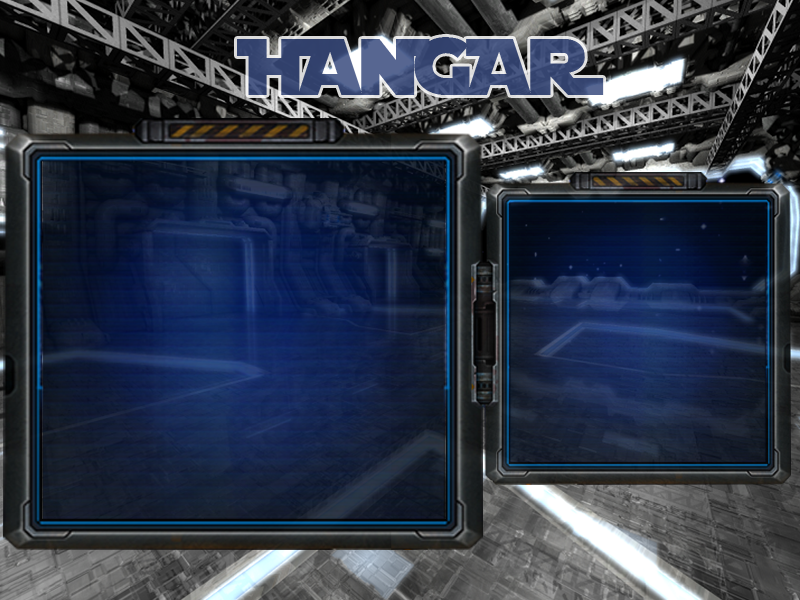
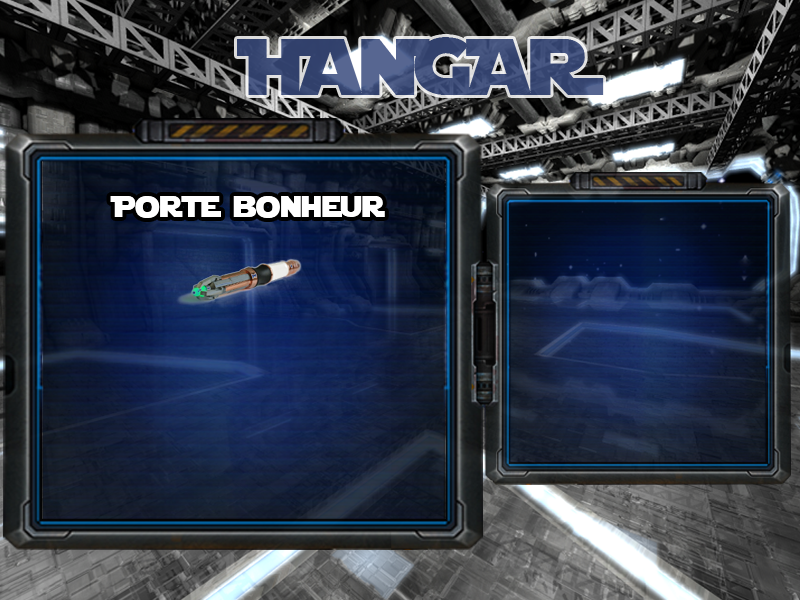
Ajoute de battle et up des rsc et hangar2

Changed region(s): [[0.125, 0.3, 0.5, 0.39], [0.2188, 0.42, 0.375, 0.51]]

diff --git a/src/Gameview/BattleView.java b/src/Gameview/BattleView.java
@@ -1,0 +1,183 @@
+package Gameview;
+
+import java.io.IOException;
+import java.nio.file.Paths;
+import org.jsfml.graphics.Font;
+import org.jsfml.graphics.RenderWindow;
+import org.jsfml.graphics.Sprite;
+import org.jsfml.graphics.Text;
+import org.jsfml.graphics.Texture;
+import org.jsfml.window.VideoMode;
+import org.jsfml.window.WindowStyle;
+import org.jsfml.window.event.Event;
+import org.jsfml.window.event.Event.Type;
+
+import controller.Game;
+
+public class BattleView {
+
+	public RenderWindow BattleWindow;
+	public Game monGame;
+	private Texture FondTexture = new Texture();
+	private Texture VoidTexture = new Texture();
+	private Texture Asteroide1Texture = new Texture();
+	private Texture Asteroide2Texture = new Texture();
+	private Texture Asteroide3Texture = new Texture();
+	private Texture AllyTexture = new Texture();
+	private Texture HeroTexture = new Texture();
+	private Texture EnnemyTexture = new Texture();
+	private Sprite FondSprite = new Sprite();
+	private Sprite voidie = new Sprite();
+	private Sprite asteroide1 = new Sprite();
+	private Sprite asteroide2 = new Sprite();
+	private Sprite asteroide3 = new Sprite();
+	private Sprite ally = new Sprite();
+	private Sprite ennemy = new Sprite();
+	private Sprite hero = new Sprite();
+	private int[][] casesBattle;
+
+	public BattleView(Game P,RenderWindow maRenderWindow)
+	{
+		BattleWindow = maRenderWindow;
+		monGame = P;
+	}
+
+	public String run(){
+
+		chargerImages();
+		FondSprite.setTexture(FondTexture);
+
+		while(BattleWindow.isOpen() )
+		{
+			for(Event event : BattleWindow.pollEvents())
+			{
+				if(event.type == Type.CLOSED){
+					BattleWindow.close();
+				}
+
+				BattleWindow.clear();
+				BattleWindow.draw(FondSprite);
+
+				int i,j;
+				casesBattle = monGame.getGrilleTBS().getCases();
+
+				for(i=0;i<15;i++){
+					for(j=0;j<15;j++){
+
+						switch (casesBattle[i][j])
+						{
+						case 0:
+							BattleWindow.draw(voidie);
+							voidie.setTexture(VoidTexture);
+							voidie.setPosition(150+i*38,10+j*38);
+							break;
+						case 1:
+							BattleWindow.draw(asteroide1);
+							asteroide1.setTexture(Asteroide1Texture);
+							asteroide1.setPosition(150+i*38,10+j*38);
+							break;
+						case 2:
+							BattleWindow.draw(asteroide2);
+							asteroide2.setTexture(Asteroide2Texture);
+							asteroide2.setPosition(150+i*38,10+j*38);
+							break;
+						case 3:
+							BattleWindow.draw(asteroide3);
+							asteroide3.setTexture(Asteroide3Texture);
+							asteroide3.setPosition(150+i*38,10+j*38);
+							break;
+						case -1:
+							BattleWindow.draw(hero);
+							hero.setTexture(HeroTexture);
+							hero.setPosition(150+i*38,10+j*38);
+							break;
+						case -2:
+							BattleWindow.draw(ally);
+							ally.setTexture(AllyTexture);
+							ally.setPosition(150+i*38,10+j*38);
+							break;
+						case -3:
+							BattleWindow.draw(ennemy);
+							ennemy.setTexture(EnnemyTexture);
+							ennemy.setPosition(150+i*38,10+j*38);
+							break;
+						default:
+
+						}
+					}
+				}
+
+				BattleWindow.display();
+			}
+		}
+		return "endGame";
+	}
+
+	private void chargerImages(){
+		try
+		{
+			FondTexture.loadFromFile(Paths.get("rsc\\Battlefield.png"));
+		}
+		catch (IOException e1) {
+			// TODO Auto-generated catch block
+			e1.printStackTrace();
+		}
+		try
+		{
+			VoidTexture.loadFromFile(Paths.get("rsc\\void.png"));
+		}
+		catch (IOException e1) {
+			// TODO Auto-generated catch block
+			e1.printStackTrace();
+		}
+		try
+		{
+			Asteroide1Texture.loadFromFile(Paths.get("rsc\\aste1.png"));
+		}
+		catch (IOException e1) {
+			// TODO Auto-generated catch block
+			e1.printStackTrace();
+		}
+		try
+		{
+			Asteroide2Texture.loadFromFile(Paths.get("rsc\\aste2.png"));
+		}
+		catch (IOException e1) {
+			// TODO Auto-generated catch block
+			e1.printStackTrace();
+		}
+		try
+		{
+			Asteroide3Texture.loadFromFile(Paths.get("rsc\\aste3.png"));
+		}
+		catch (IOException e1) {
+			// TODO Auto-generated catch block
+			e1.printStackTrace();
+		}
+		try
+		{
+			AllyTexture.loadFromFile(Paths.get("rsc\\ally.png"));
+		}
+		catch (IOException e1) {
+			// TODO Auto-generated catch block
+			e1.printStackTrace();
+		}
+		try
+		{
+			EnnemyTexture.loadFromFile(Paths.get("rsc\\enemy.png"));
+		}
+		catch (IOException e1) {
+			// TODO Auto-generated catch block
+			e1.printStackTrace();
+		}
+		try
+		{
+			HeroTexture.loadFromFile(Paths.get("rsc\\hero.png"));
+		}
+		catch (IOException e1) {
+			// TODO Auto-generated catch block
+			e1.printStackTrace();
+		}
+	}
+
+}

diff --git a/src/controller/Game.java b/src/controller/Game.java
@@ -8,6 +8,7 @@ import org.jsfml.window.VideoMode;
 import org.jsfml.window.WindowStyle;
 
 import Gameview.AightMusic;
+import Gameview.BattleView;
 import Gameview.Hangar2View;
 import Gameview.HangarView;
 import model.Arme;
@@ -112,9 +113,9 @@ public class Game extends Thread {
 	public void run() {
 //		musicActu.balancer();
 
-		String Etat = "Hangar";
+		String Etat = "Battle";
 		
-		RenderWindow RenderWind = new RenderWindow(new VideoMode(800, 600, 32), "Hangar",WindowStyle.CLOSE);
+		RenderWindow RenderWind = new RenderWindow(new VideoMode(800, 600, 32), "Beyond the stars",WindowStyle.CLOSE);
 		
 		while(Etat!="EndGame")
 		{
@@ -129,6 +130,12 @@ public class Game extends Thread {
 					Hangar2View monHangar2 = new Hangar2View(this, RenderWind);
 					Etat = monHangar2.run();
 					break;
+					
+				case "Battle" :
+					BattleView maBattle = new BattleView(this, RenderWind);
+					Etat = maBattle.run();
+					
+					
 			}
 		}
 	}
